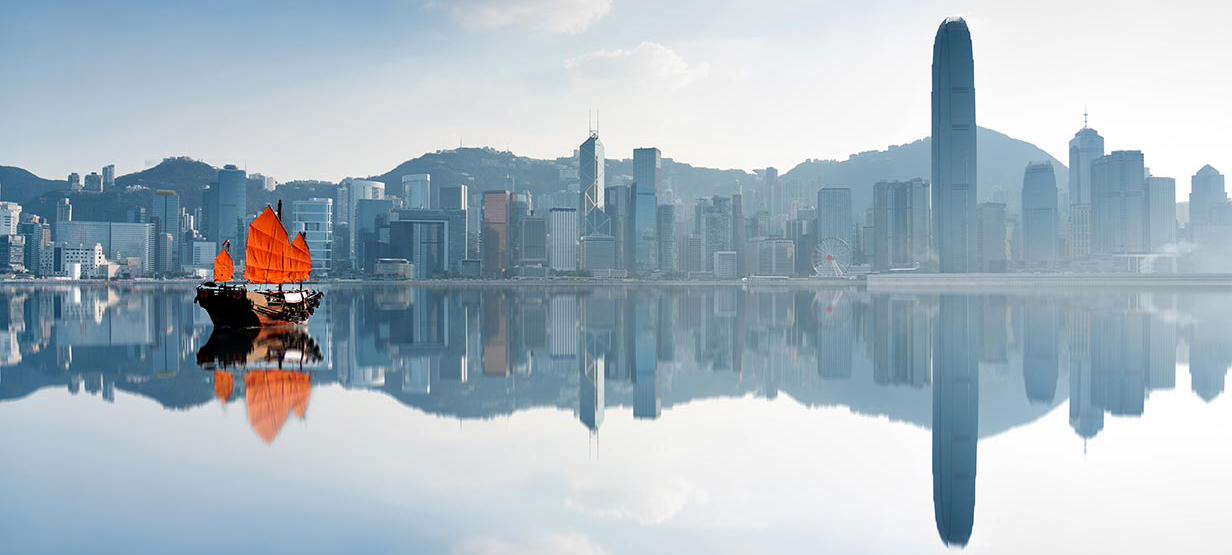
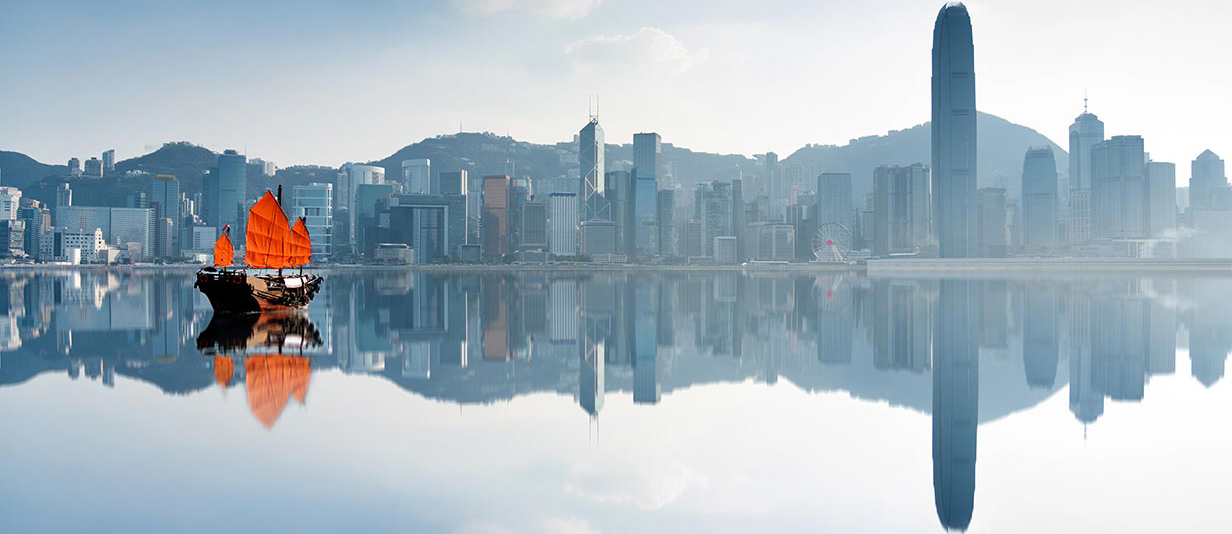
更新

diff --git a/components/BFooter.vue b/components/BFooter.vue
@@ -4,21 +4,21 @@
       <h2 class="footer_title">{{ $t("footer.WealthBuildingIsTheMasteringOfQualityAndQuantity") }}</h2>
       <ul class="footer_flex footer_ul1">
         <li class="footer_follow">{{ $t("footer.FollowUs") }}</li>
-        <li>
+        <!-- <li>
           <a href>
             <img src="/images/footer1.png" alt />
           </a>
-        </li>
+        </li>-->
         <li>
           <a href>
             <img src="/images/footer2.png" alt />
           </a>
         </li>
-        <li>
+        <!-- <li>
           <a href>
             <img src="/images/footer3.png" alt />
           </a>
-        </li>
+        </li>-->
         <li>
           <a href>
             <img src="/images/footer4.png" alt />
@@ -28,8 +28,8 @@
       <ul class="footer_flex footer_ul2">
         <li>{{ $t("footer.©2020-BTLAssetManagementCompanyLtd") }}</li>
         <li class="footer_line">
-          <a href>{{ $t("footer.FAQ") }}</a>
-          <!-- <nuxt-link :to="localePath('/resource-and-education-center/qa')">{{ $t("footer.FAQ") }}</nuxt-link> -->
+          <!-- <a href>{{ $t("footer.FAQ") }}</a> -->
+          <nuxt-link :to="localePath('/resource-and-education-center/qa')">{{ $t("footer.FAQ") }}</nuxt-link>
         </li>
         <li>
           <a href>{{ $t("footer.Disclaimers&PrivacyPolicyStatements") }}</a>

diff --git a/components/BLayout2.vue b/components/BLayout2.vue
@@ -1,5 +1,8 @@
 <template>
-  <div class="layout2" :style="{ backgroundImage: `url(${data.image})` }">
+  <div
+    class="layout2"
+    :style="{ backgroundImage: `url(${data.image})`}"
+  >
     <div class="layout2_text">
       <div class="layout2_title layout2_title1">{{ data.title }}</div>
       <div class="layout2_title layout2_title2">{{ data.subTitle }}</div>
@@ -14,9 +17,9 @@ export default {
       type: Object,
       default() {
         return {};
-      }
-    }
-  }
+      },
+    },
+  },
 };
 </script>
 
@@ -26,6 +29,7 @@ export default {
   height: 600px;
   background-size: cover;
   position: relative;
+  /* background-position: center bottom; */
 }
 .layout2_text {
   background: rgba(255, 255, 255, 0.5);
@@ -37,7 +41,8 @@ export default {
   font-size: 50px;
   color: #333333;
   font-weight: bold;
-  font-family: "MS Gothic", "微軟正黑體", "微軟雅黑體", "Microsoft JhengHei", "Arial", "sans-serif";
+  font-family: "MS Gothic", "微軟正黑體", "微軟雅黑體", "Microsoft JhengHei",
+    "Arial", "sans-serif";
   text-transform: uppercase;
   padding: 0 10px;
 }
@@ -51,5 +56,8 @@ padding: 10px;
   .layout2_title2 {
     margin-left: 0px;
   }
+  .layout2 {
+  height: 250px;
+}
 }
 </style>

diff --git a/pages/what-we-do/_type.vue b/pages/what-we-do/_type.vue
@@ -17,32 +17,34 @@ export default {
   components: {
     BLayout2,
     BContent,
-    BFooterSiteMap
+    BFooterSiteMap,
   },
   data: () => ({
-    pageContents
+    pageContents,
   }),
   computed: {
     pageData() {
-      const target = pageContents.find(x => x.name === "what-we-do");
+      const target = pageContents.find((x) => x.name === "what-we-do");
       if (target) {
-        const page = target.pages.find(x => x.name === this.$route.params.type);
+        const page = target.pages.find(
+          (x) => x.name === this.$route.params.type
+        );
         return {
           layout: {
             title: this.$t(target.title),
             subTitle: this.$t(page.title),
-            image: target.image
+            image: target.image,
+            backgroundPosition: page.backgroundPosition,
           },
           content: {
-            texts: page.texts
-          }
+            texts: page.texts,
+          },
         };
       }
-    }
-  }
+    },
+  },
 };
 </script>
 
 <style scoped>
-
 </style>

diff --git a/components/BIntroducingBrokerage.vue b/components/BIntroducingBrokerage.vue
@@ -1,8 +1,10 @@
 <template>
   <div>
     <div class="int">
-      <p>{{ $t("whatwedo.IntroducingBrokerage2.Overview&Benefits") }}</p>
-      <p>{{ $t("whatwedo.IntroducingBrokerage2.Overview&BenefitsContent") }}</p>
+      <div class="int_title">
+        <p>{{ $t("whatwedo.IntroducingBrokerage2.Overview&Benefits") }}</p>
+        <p>{{ $t("whatwedo.IntroducingBrokerage2.Overview&BenefitsContent") }}</p>
+      </div>
       <div class="amc_pic">
         <div class="amc_text amc_text6">
           <div
@@ -196,6 +198,9 @@ export default {
 </script>
 
 <style scoped>
+.int_title {
+  margin: 100px auto;
+}
 .amc_title {
   font-size: 20px;
   font-weight: bold;
@@ -311,6 +316,11 @@ export default {
   }
   .amc_pic_bg {
     min-height: 200px;
+  }
+}
+@media screen and (max-width: 500px) {
+  .int_title {
+    margin: 50px auto;
   }
 }
 </style>

diff --git a/components/BDisclaim/BDisclaimContentEnus.vue b/components/BDisclaim/BDisclaimContentEnus.vue
@@ -38,7 +38,7 @@
               </b>
             </p>
           </div>
-          <h4 style="height:30px;width:100%;border-bottom:1px solid ;">
+          <h4 style="width:100%;border-bottom:1px solid ;">
             <span name="text_switch">Does not constitute an offer / local restriction</span>
           </h4>
           <p>
@@ -161,6 +161,9 @@ export default {};
 </script>
 
 <style>
+h4{
+  height:30px;
+}
 .v-card__text {
   background: #eee;
 }
@@ -171,4 +174,10 @@ export default {};
   margin: 0 !important;
   padding: 0 !important;
 }
+@media screen and (max-width: 500px) {
+h4{
+  height:50px;
+}
+}
+
 </style>

diff --git a/components/BBlock6.vue b/components/BBlock6.vue
@@ -67,12 +67,13 @@ export default {
 
 <style>
 .contact {
-  margin: 20px 0px;
+  margin: 20px auto 100px;
+  max-width:84%;
 }
 .contact h2 {
   font-size: 50px;
   text-align: center;
-  padding: 40px 50px 60px;
+  padding: 90px 50px 100px;
 }
 .contact_content {
   display: grid;
@@ -133,6 +134,7 @@ export default {
   }
   .contact h2 {
     font-size: 25px;
+     padding: 50px 50px 60px;
   }
 }
 </style>

diff --git a/components/BAssetManagement.vue b/components/BAssetManagement.vue
@@ -156,7 +156,9 @@ export default {
   grid-template-rows: 1fr auto;
   grid-row-gap: 5px;
 }
-
+.amc>p{
+  margin: 100px auto;
+}
 .amc_title {
   font-size: 20px;
   font-weight: bold;
@@ -277,5 +279,8 @@ export default {
   .amc_text4 {
     grid-column: 4/-1;
   }
+  .amc>p{
+  margin: 50px auto;
+}
 }
 </style>

diff --git a/pages/aboutus.vue b/pages/aboutus.vue
@@ -110,7 +110,7 @@ export default {
 }
 .about_pic4 {
   background-image: url(/images/about4.jpg);
-  height: 600px !important;
+  height: 600px;
 }
 .about_pic5 {
   background-image: url(/images/about5.jpg);

diff --git a/components/BBlock4.vue b/components/BBlock4.vue
@@ -104,7 +104,7 @@ export default {
 .block4 {
   background: #fff;
   padding-bottom: 100px;
-  max-width: 80%;
+  max-width: 78%;
   margin: 100px auto;
 }
 .block4 > .member-grid {

diff --git a/pages/forms.vue b/pages/forms.vue
@@ -156,6 +156,9 @@ export default {
 </script>
 
 <style>
+.forms{
+  margin:100px auto;
+}
 .forms_grid {
   display: grid;
   grid-template-columns: repeat(4, 1fr);

diff --git a/components/BBlock3.vue b/components/BBlock3.vue
@@ -160,5 +160,8 @@ export default {};
   .about_content {
     margin: 0px;
   }
+  .about_text_bottom{
+    padding: 20px;
+  }
 }
 </style>
